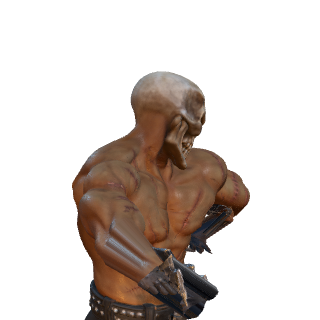
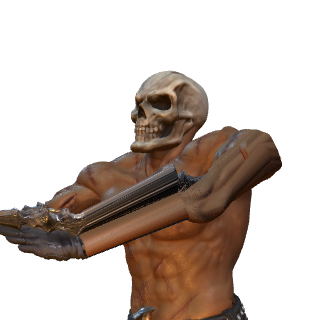
fix(models): Slice faced 90 deg away; facing records gain quarter turns (+X / -X)
His card showed his side and back and he fought with his back to the
camera while Pantera, opposite, stood in profile. In the bind pose his
mesh faces +X (chest square to a camera on +X), which the +Z / -Z table
could not fix. model-facing.json now accepts '+X' / '-X'; assets.js turns
those instances a quarter (facingYaw). slice-attire1 = +X. Card and a real
fight checked by eye: front-on card, in profile facing his opponent.

Claude-Session: https://claude.ai/code/session_01CLThWtX97Fi7zFw5wnvydL

diff --git a/game/js/assets.js b/game/js/assets.js
@@ -1308,6 +1308,7 @@ class AssetManager {
     this.gltfs = {};   // id -> gltf
     this.clips = {};   // id -> {name: clip}
     this.facing = {};  // id -> +1 (+Z) | -1 (-Z), mesh facing of the raw GLB
+    this.facingYaw = {}; // id -> extra Y turn (radians) for a mesh recorded '+X' / '-X' (quarter-turned), else 0
     this.groundY = {}; // id -> lowest skinned-vertex height of the raw GLB at rest
     this.ready = false;
     this._inflight = {};      // id -> { promise, abort } — dedups concurrent loads
@@ -1561,7 +1562,11 @@ class AssetManager {
     await _facingReady.then(() => {
       try {
         const rec = _facingTable && _facingTable[id];
-        this.facing[id] = rec === '-Z' ? -1 : rec === '+Z' ? 1 : (feetFacingCue(gltf.scene) || 1);
+        // '+X' / '-X' (2026-11-06): a mesh that faces sideways (Slice's card showed his side and back, and he
+        // fought turned 90 deg away) is turned a quarter, not a half, to face +Z.
+        const quarter = rec === '+X' ? -Math.PI / 2 : rec === '-X' ? Math.PI / 2 : 0;
+        this.facingYaw[id] = quarter;
+        this.facing[id] = rec === '-Z' ? -1 : (rec === '+Z' || quarter) ? 1 : (feetFacingCue(gltf.scene) || 1);
       } catch (e) {
         console.warn(`[WH] facing cue failed for ${id}, defaulting to +Z:`, (e && e.message) || e);
         this.facing[id] = 1;
@@ -1657,6 +1662,7 @@ class AssetManager {
     // dict and mixer are built from it. The source gltf is untouched.
     const mblabRemapped = remapMblabBones(fighterId, inner);
     if ((this.facing[fighterId] || 1) < 0) inner.rotation.y = Math.PI;
+    else if (this.facingYaw[fighterId]) inner.rotation.y = this.facingYaw[fighterId];
     const gy = this.groundY[fighterId] || 0;
     if (Math.abs(gy) > 0.03) inner.position.y = -gy; // feet on the floor
     const model = new THREE.Group();

diff --git a/docs/proof/2026-11-06/cards-facing/README.md b/docs/proof/2026-11-06/cards-facing/README.md
@@ -17,3 +17,11 @@ The broken originals stay in `game/assets/portraits/broken-originals-20261106/`.
 His card showed his back too. Here the game had already turned him (the feet cue read `-Z`, `assets.facing = -1` read
 back in the page), and his face was still at 180 deg in the probe, so his mesh faces `+Z`: `dorowani` is now recorded
 `+Z`. `dorowani-card-and-fight.png`: old card / new card (his face) and a real fight vs Pantera, facing his opponent.
+
+## Slice (same day): a quarter turn
+
+His card showed his side and back, and in a fight he stood with his back to the camera while Pantera, opposite, was in
+profile (`slice-fight-before.png`). In the bind pose his chest is square to the camera at yaw 90 (camera on +X): the
+mesh faces +X, which a 180 deg turn cannot fix. `model-facing.json` gains quarter-turn records (`+X` / `-X`, read in
+`game/js/assets.js` as `facingYaw`); `slice-attire1` is `+X`. `slice-card-and-fight.png`: the new card from four
+angles (front at yaw 0) and the same fight, Slice now in profile facing Pantera.
